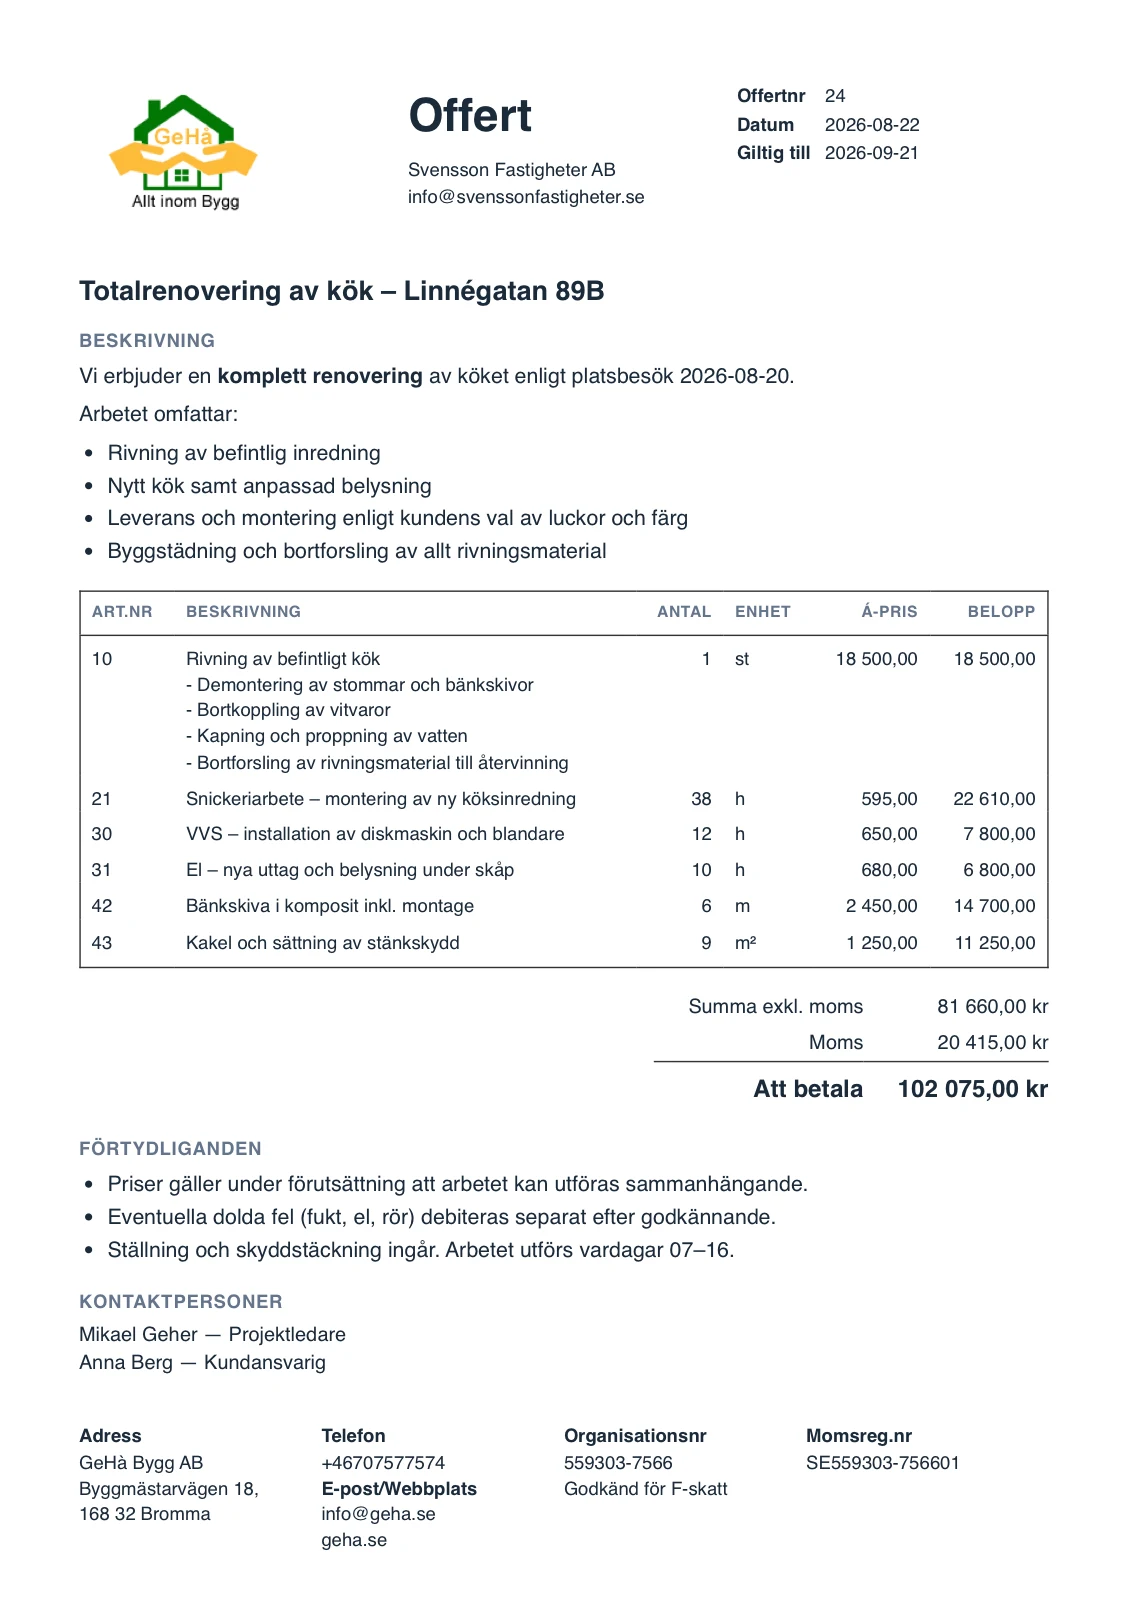
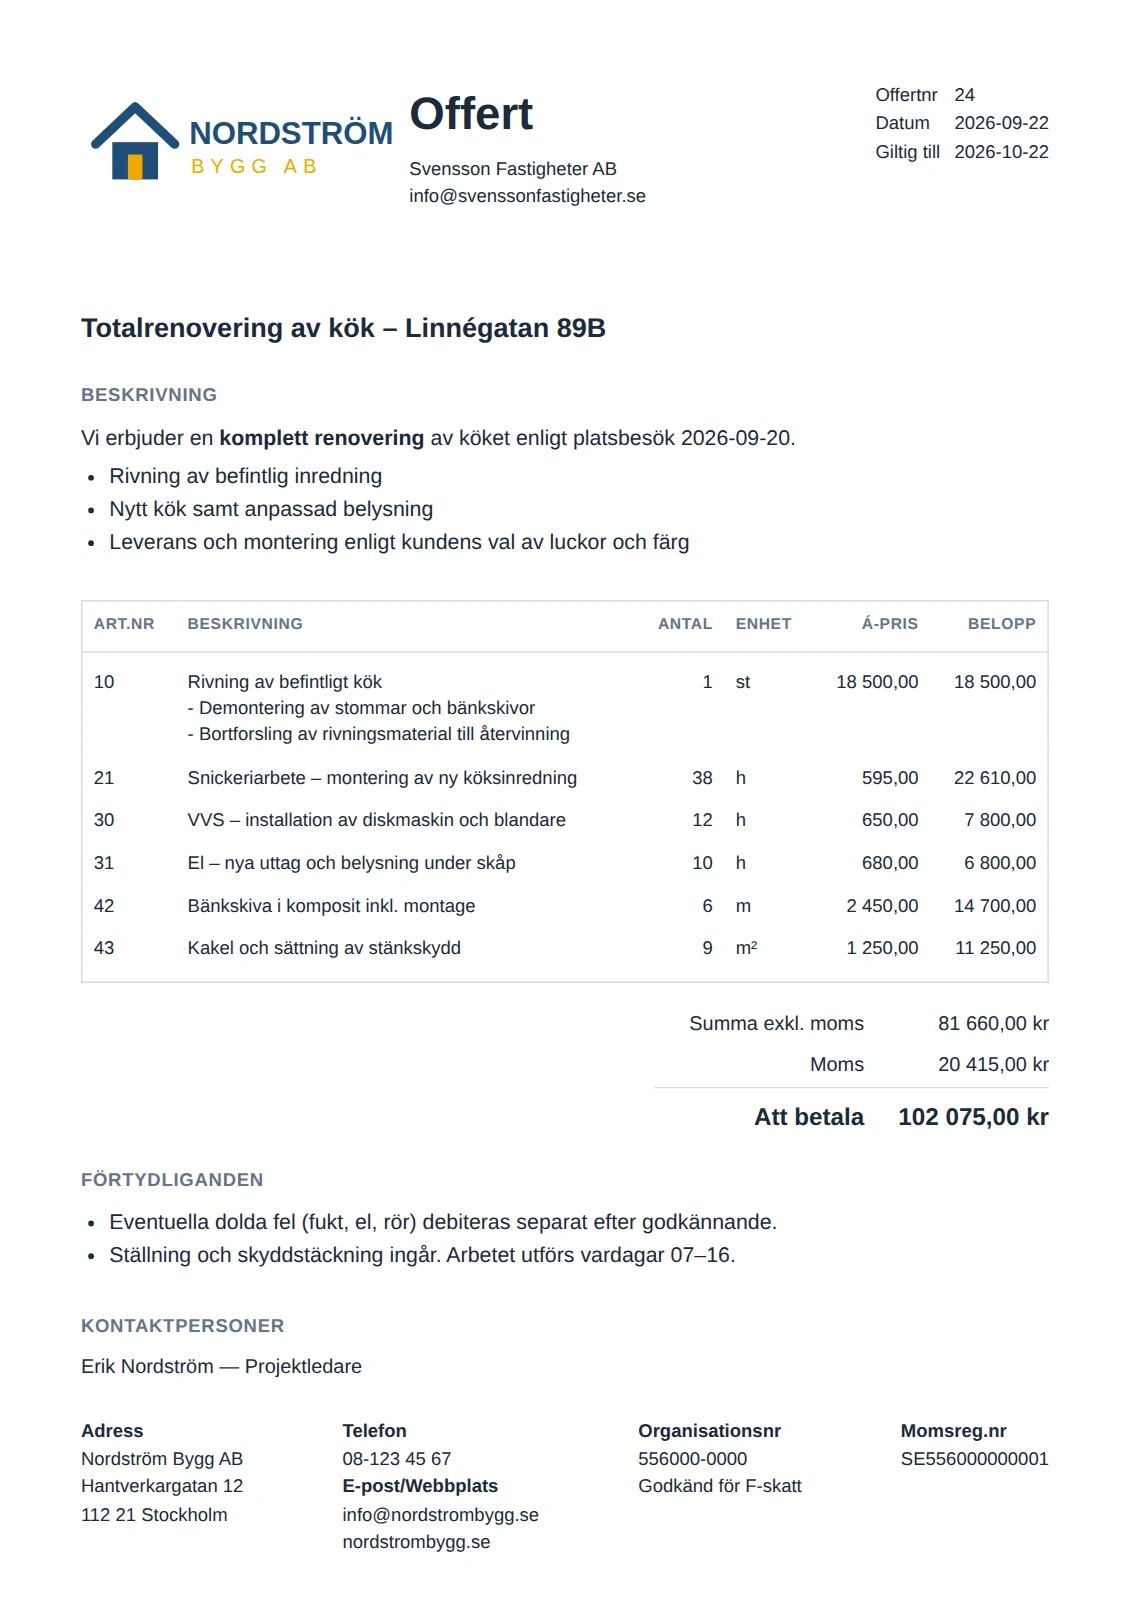
feat(site): feature pages relate only to features, new offer/invoice images, centred pricing call-out
Claude-Session: https://claude.ai/code/session_01AZGXrfYaawAhTotsQS6JPG

diff --git a/src/components/Pricing/Pricing.tsx b/src/components/Pricing/Pricing.tsx
@@ -238,7 +238,9 @@ function Pricing({ pricingT, lang }: PricingProps) {
                   <span className="per">{pricingT.pricingPer}</span>
                 </div>
 
-                <div className="pricing-groups">
+                <div
+                  className={`pricing-groups${plan.highlight ? " pricing-groups-fit" : ""}`}
+                >
                   {plan.groups.map((group) => (
                     <div className="pricing-group" key={group.title}>
                       <h3 className="pricing-group-title">{group.title}</h3>
@@ -248,12 +250,14 @@ function Pricing({ pricingT, lang }: PricingProps) {
                 </div>
 
                 {plan.highlight ? (
-                  <div className="pricing-highlight">
-                    <div className="pricing-highlight-title">
-                      {plan.highlight.split(" – ")[0]}
-                    </div>
-                    <div className="pricing-highlight-note">
-                      {plan.highlight.split(" – ")[1]}
+                  <div className="pricing-highlight-wrap">
+                    <div className="pricing-highlight">
+                      <div className="pricing-highlight-title">
+                        {plan.highlight.split(" – ")[0]}
+                      </div>
+                      <div className="pricing-highlight-note">
+                        {plan.highlight.split(" – ")[1]}
+                      </div>
                     </div>
                   </div>
                 ) : null}

diff --git a/src/pages/[lang]/blog/[slug].tsx b/src/pages/[lang]/blog/[slug].tsx
@@ -76,7 +76,11 @@ async function getRelatedPosts(
   pool = [...pool, ...cms.filter((p) => !seen.has(p.slug))];
   const current = pool.find((p) => p.slug === currentSlug);
   const cat = current ? categoryForTag(current.tag) : null;
-  const others = pool.filter((p) => p.slug !== currentSlug);
+  let others = pool.filter((p) => p.slug !== currentSlug);
+  // A feature page ("Funktioner") only links to other feature pages.
+  if (FEATURE_ARTICLE_SLUGS.has(currentSlug)) {
+    others = others.filter((p) => FEATURE_ARTICLE_SLUGS.has(p.slug));
+  }
   const same = cat ? others.filter((p) => categoryForTag(p.tag) === cat) : [];
   const sameSlugs = new Set(same.map((p) => p.slug));
   const rest = others.filter((p) => !sameSlugs.has(p.slug));

diff --git a/src/components/Pricing/Pricing.scss b/src/components/Pricing/Pricing.scss
@@ -209,8 +209,22 @@
 }
 
 /* "Built for your business" call-out, styled like the onboarding choice cards. */
+/* The call-out takes the card's free space and sits centred in it, so the gap
+   above (to the list) equals the gap below (to the button). */
+.pricing-groups-fit {
+  flex-grow: 0;
+  margin-bottom: 0;
+}
+
+.pricing-highlight-wrap {
+  flex-grow: 1;
+  display: flex;
+  flex-direction: column;
+  justify-content: center;
+  padding: 24px 0;
+}
+
 .pricing-highlight {
-  margin: -12px 0 28px;
   padding: 12px 14px;
   border: 1px solid #d6e6fb;
   border-radius: 14px;

diff --git a/docs/worklog.md b/docs/worklog.md
@@ -269,3 +269,9 @@
 4. YouTube Шаг 2: записать Del 1 + расписать первые 8 видео (`docs/marketing/youtube-step2-videos.md`).
 
 ---
+
+## 2026-09-26 — Funktioner + pris-pillen
+- Priser: "Funktioner anpassade…"-pillen står nu mitt i kortets lediga yta (lika avstånd till listan och knappen).
+- Funktionssidor: "Liknande artiklar" visar bara andra funktionssidor.
+- Nya offert/faktura-bilder (fakturera-fran-byggexp-doc.webp, skapa-offert-i-byggexp-doc.webp) renderade från backendens nuvarande PDF-mallar med demoföretaget Nordström Bygg AB.
+- Nästa: färger på planerna (orange ersätts), ev. flytt /blog/<slug> → /funktioner/<slug> med 301.
